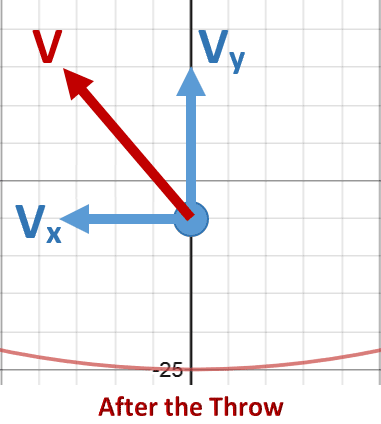
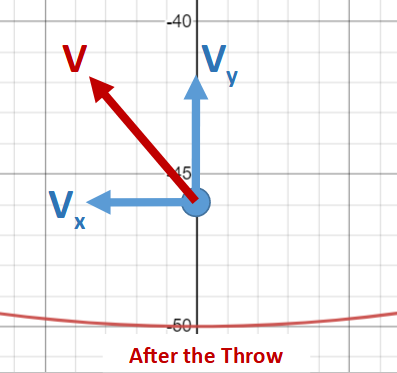
Altered first math article
Altered first math article to reflect changed radius

diff --git a/coriolis/math/index.html b/coriolis/math/index.html
@@ -141,7 +141,7 @@
   <li>At the moment of the throw, the person is standing at the bottom of the circle, at 270 degrees or 3π/2 radians.</li>
   <li>The person is holding the coin at 4 feet from the floor. This is the starting height.</li>
   <li>The person throws the coin straight upward at 14 ft/s, which would have sent the coin about 3 feet up in the air on Earth.</li>
-  <li>The rotating space station has a diameter of 50 feet. It is rotating at the speed necessary to produce 1g of acceleration, or 100% Earth gravity at the floor.</li>
+  <li>The rotating space station has a diameter of 100 feet. It is rotating at the speed necessary to produce 1g of acceleration, or 100% Earth gravity at the floor.</li>
   <li>The coin experiences less than this amount of centripetal acceleration or “gravity” because it is not at the floor.</li>
 </ul>
 
@@ -202,11 +202,11 @@
 
 <ul>
   <li>$a=-32.174$ ft/s/s (1g), the acceleration at the floor</li>
-  <li>$r$ is the radius of the station, or 25 feet.</li>
+  <li>$r$ is the radius of the station, or 50 feet.</li>
   <li>$\omega$ is the rotational speed in radians per second. It is negative because the station is rotating clockwise.</li>
 </ul>
 
-<p>Now that we have the rate of rotation, we can calculate the horizontal velocity of the coin. The radius at the coin will be 25 ft minus 4 ft, or 21 feet. The velocity will be negative because the coin is traveling left.</p>
+<p>Now that we have the rate of rotation, we can calculate the horizontal velocity of the coin. The radius at the coin will be 50 ft minus 4 ft, or 46 feet. The velocity will be negative because the coin is traveling left.</p>
 
 <p>If you put all of this together coin using $v=\omega*r$, using the rotation rate from the floor and the radius at the coin, you get:</p>
 
@@ -216,12 +216,12 @@
 
 <ul>
   <li>$v_x$: the horizontal velocity of the coin, which we are calculating</li>
-  <li>a: the acceleration of the station, -32.174 ft/s/s</li>
-  <li>$r_{s}$: the radius of the station, 25 feet</li>
+  <li>a: the acceleration of the station, 32.174 ft/s/s</li>
+  <li>$r_{s}$: the radius of the station, 50 feet</li>
   <li>$h_{c}$: the starting height of the coin, 4 feet</li>
 </ul>
 
-<p>$v_x$ works out to -23.82329$ ft/s.</p>
+<p>$v_x$ works out to -36.89991$ ft/s.</p>
 
 <p><br /></p>
 
@@ -238,9 +238,9 @@
   <li>$r_c$: the y-intercept. This is the radius where the coin starts, mapped to our coordinate system. This is <em>subtracted</em> because it is below the center.</li>
 </ul>
 
-<p>Given that $v_x=-23.82329$ ft/s, $v_y=14$ ft/s, and $r_c=25-4=21$ ft, this is the line that makes up the coin’s path:</p>
+<p>Given that $v_x=-36.89991$ ft/s, $v_y=14$ ft/s, and $r_c=50-4=46$ ft, this is the line that makes up the coin’s path:</p>
 
-<script type="math/tex; mode=display">y=-.587660x-21</script>
+<script type="math/tex; mode=display">y=-.379405x-46</script>
 
 <p>Now, we need to find where this line intersects with the circle that is the station. Here is our formula for the circle:</p>
 
@@ -288,13 +288,13 @@
 
 <script type="math/tex; mode=display">x=\frac{mr_c\pm\sqrt{r_s^2(1+m^2)-r_c^2}}{1+m^2}</script>
 
-<p>This is our formula for the x-coordinate of the coin. The operator we use depends on what quadrant the coin lands in; in other words, it depends on the conditions of the throw. In this problem, the correct value will be the answer that is negative because the coin goes to the <em>left</em>. The equation correctly gives us -24.036 when we solve with the (-) operator.</p>
+<p>This is our formula for the x-coordinate of the coin. The operator we use depends on what quadrant the coin lands in; in other words, it depends on the conditions of the throw. In this problem, the correct value will be the answer that is negative because the coin goes to the <em>left</em>. The equation correctly gives us -39.098 when we solve with the (-) operator.</p>
 
 <p>Now we need to solve for the y-component that matches this x-component. Here is the equation for our line again:</p>
 
 <script type="math/tex; mode=display">y = mx - r_c</script>
 
-<p>Inserting -.587660 for $m$, 21 for $r_c$, and -24.036 for $x$ gives us an answer of y=-6.875. The coin’s final coordinates are (-24.036, -6.875).</p>
+<p>Inserting -.379405 for $m$, 46 for $r_c$, and -39.098 for $x$ gives us an answer of y=-31.166. The coin’s final coordinates are (-39.098, -31.166).</p>
 
 <p>Once more, here are our final formulas for the coin’s landing coordinates:</p>
 
@@ -312,7 +312,7 @@
 
 <p><br /></p>
 
-<h4 id="time-elapsed">Time Elapsed</h4>
+<h4 id="time-elapsed">Time elapsed</h4>
 
 <p>Now that we have the coin’s landing coordinates, we can solve for the exact time elapsed using kinematics. To calculate this, we need the distance traveled; however, we only need this in one dimension. We will use the initial and final x-coordinates. The coin travels from 0 to $x_f$, and its velocity is $v_x$.</p>
 
@@ -328,11 +328,11 @@
   <li>$v_x$ = the velocity x-component</li>
 </ul>
 
-<p>This solves to almost exactly one second, or 1.009s.</p>
+<p>This solves to almost exactly one second, or 1.060s.</p>
 
 <p><br /></p>
 
-<h4 id="the-arc-swept-by-the-person">The Arc Swept By the Person</h4>
+<h4 id="the-persons-final-coordinates">The person’s final coordinates</h4>
 
 <p>We can use the time variable to calculate the angle a person will rotate while the coin is in the air. This will give us the final coordinates of the person.</p>
 
@@ -376,11 +376,11 @@
   <li>t = the time elapsed while the coin is in the air</li>
 </ul>
 
-<p>The person’s final coordinates are (-22.763, -10.336).</p>
+<p>The person’s final coordinates are (-37.563, -33.001).</p>
 
 <p><br /></p>
 
-<h4 id="the-final-answer">The Final Answer</h4>
+<h4 id="the-final-answer">The final answer</h4>
 
 <p>Now that we have both the landing coordinates of the coin and the person’s final coordinates, we can calculate the straight line distance between the two using the Pythagorean theorem. This formula gives us our answer:</p>
 
@@ -391,11 +391,11 @@
   <li>$x_p$ and $y_p$ are the person’s final coordinates</li>
 </ul>
 
-<p>This tells us that the coin landed 3.687 feet away from the person’s feet.</p>
+<p>This tells us that the coin landed 2.393 feet away from the person’s feet.</p>
 
 <p>This value is the straight-line distance to the coin from the person’s feet. The model shows a scale along the floor; if you follow the tic-marks on the screen, you will discover the <em>curvilinear</em> distance to the coin, which may be slightly different. The model also calculates the curvilinear distance; you can find this in the stats menu.</p>
 
-<p>The model breaks up the path of the coin into 100 pieces, reorients each of these points to the person’s perspective at that moment, and moves real-time between these points to make an arc on the screen.</p>
+<p>The model breaks up the path of the coin into about 100 pieces, reorients each of these points to the person’s perspective at that moment, and moves real-time between these points to make an arc on the screen. The next article discusses how this is done.</p>
 
 <h4 id="conclusion">Conclusion</h4>
 
